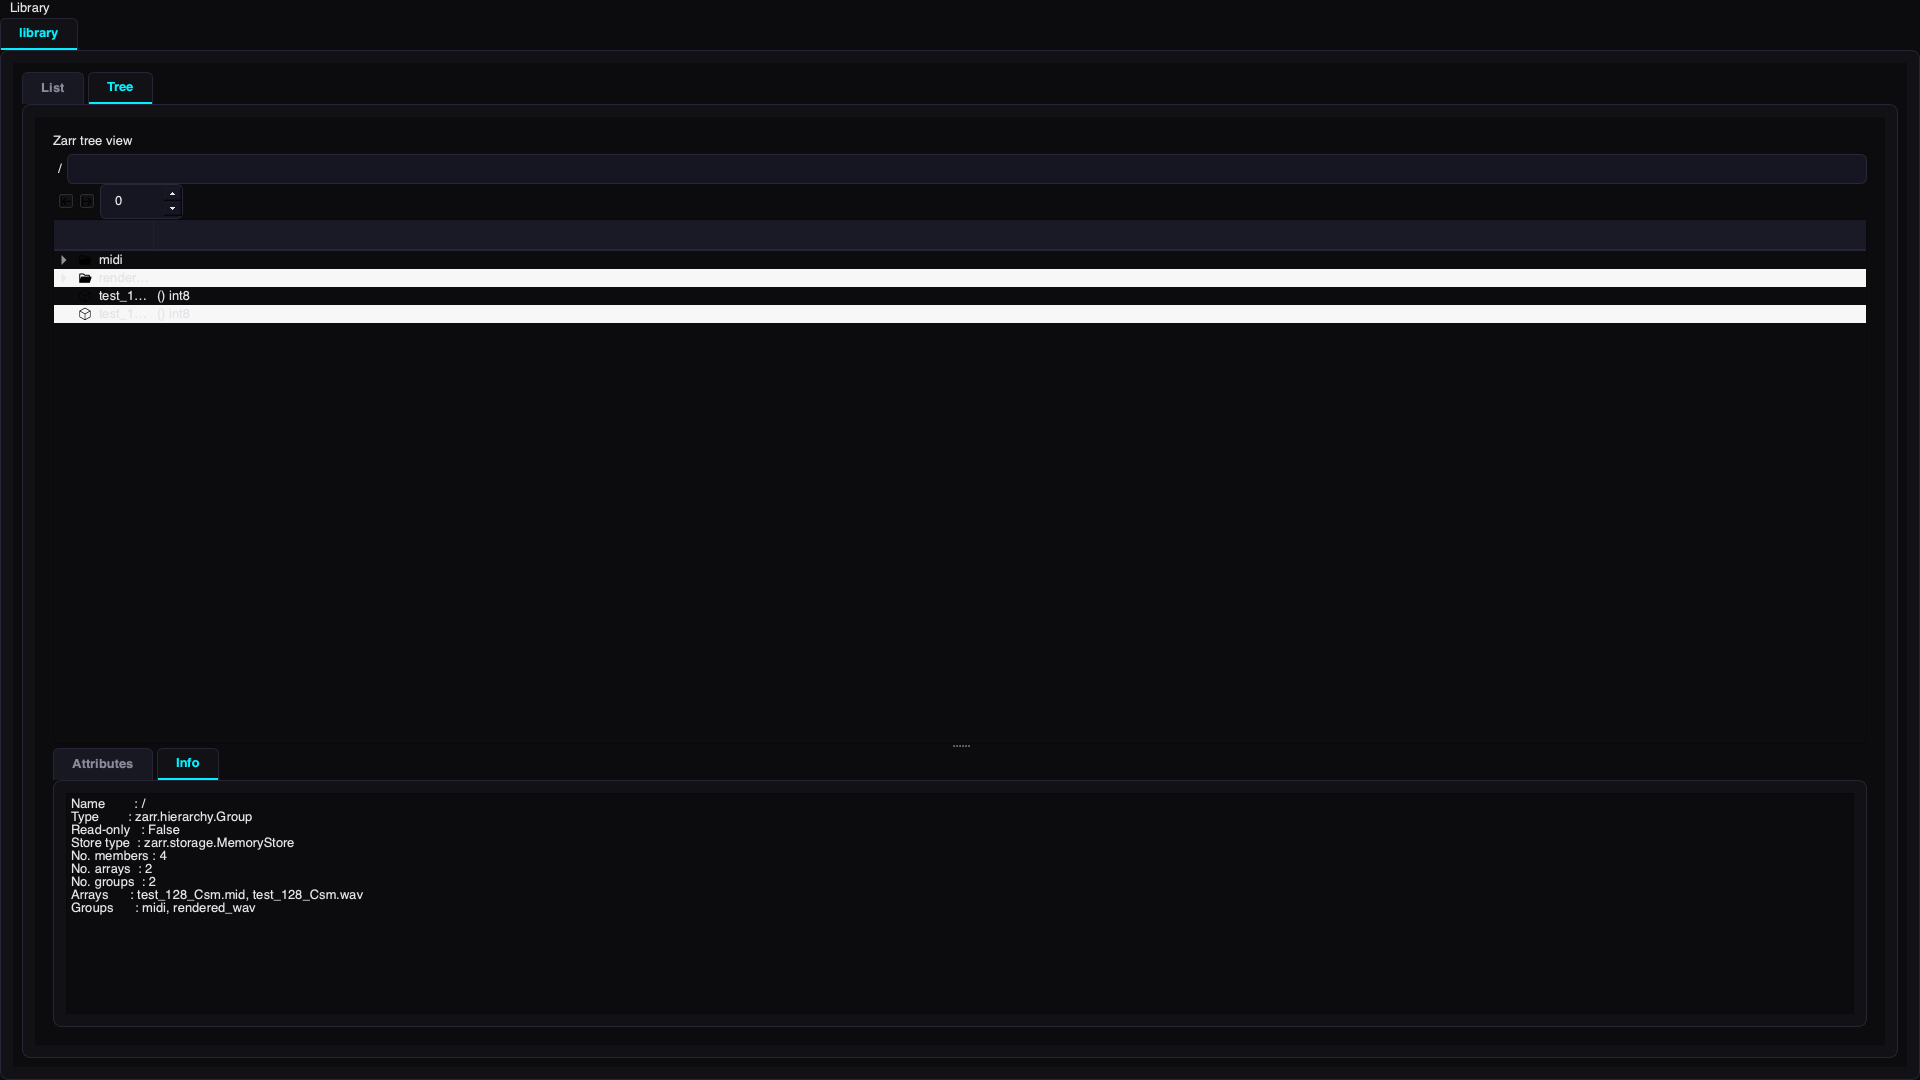
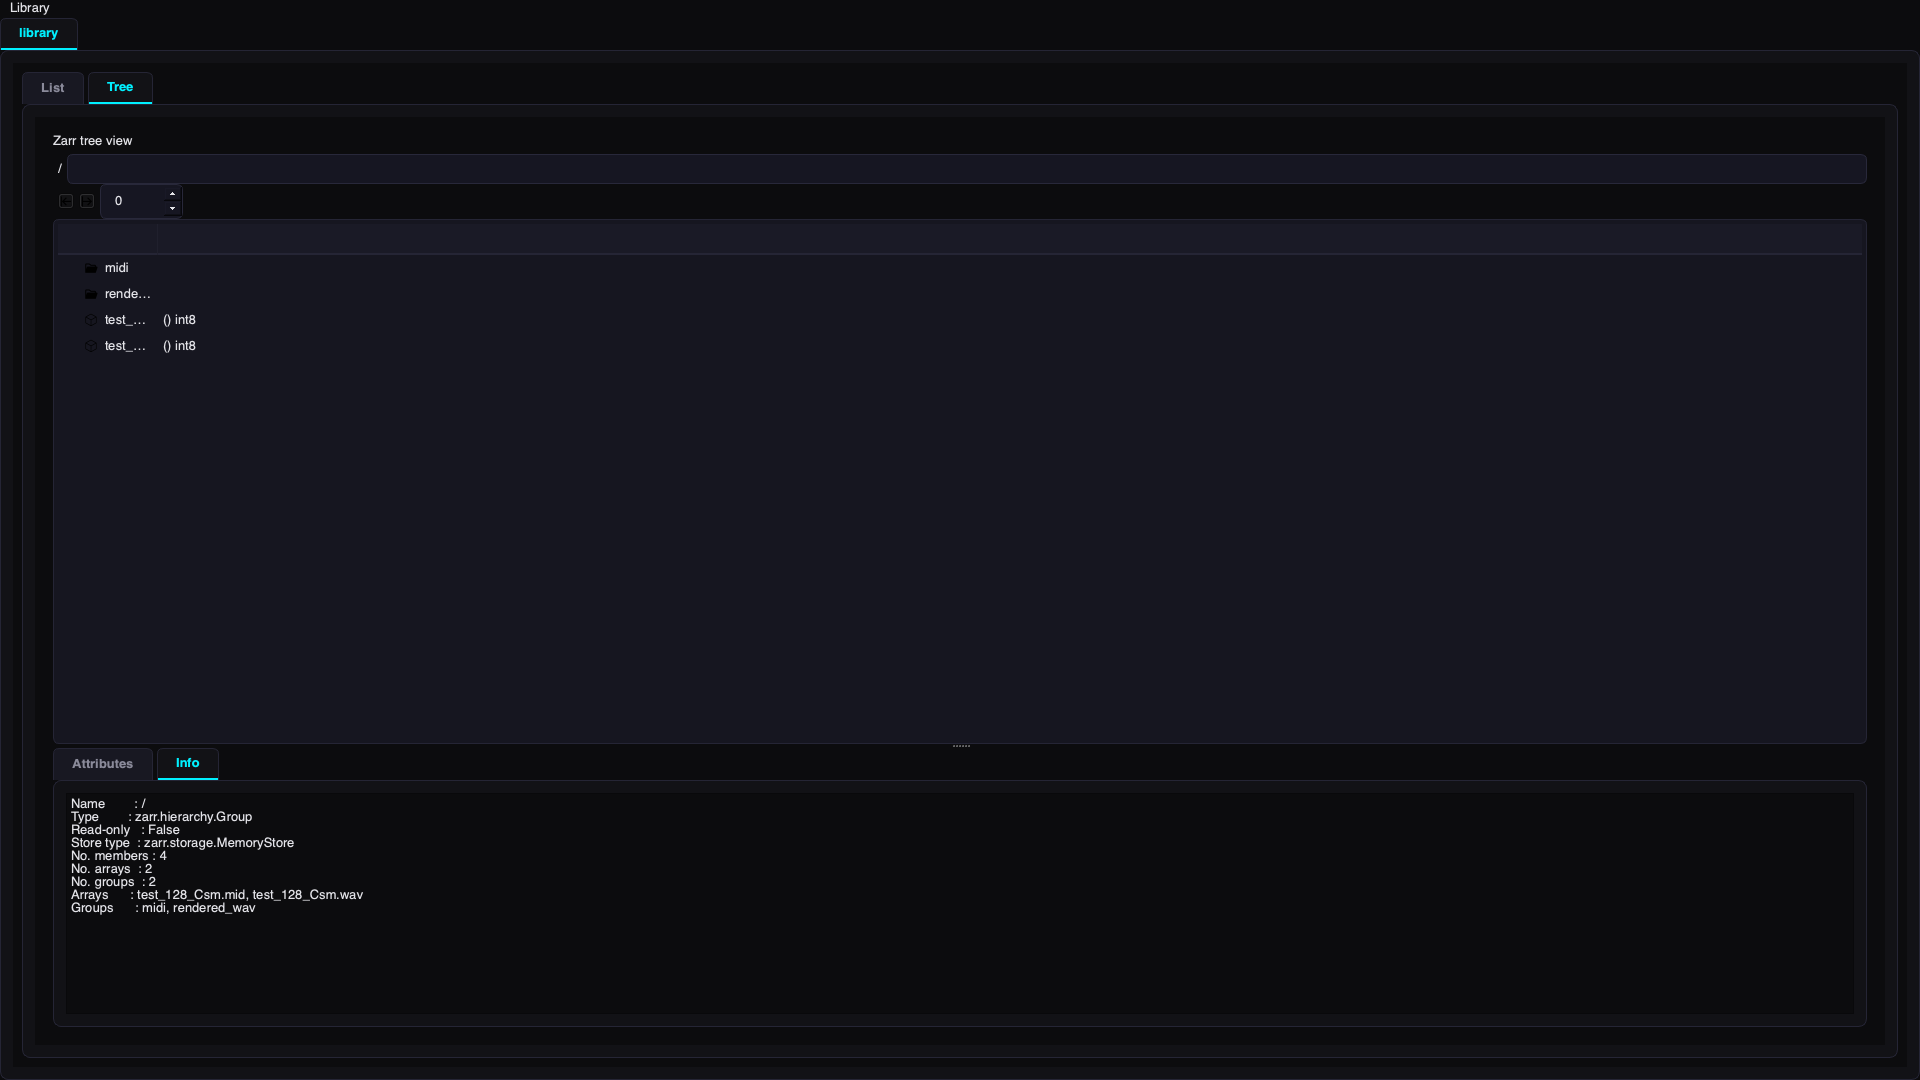
.

Changed region(s): [[0.0312, 0.2139, 0.9688, 0.3056]]

diff --git a/src/birka/presentation/zarr_library_view.py b/src/birka/presentation/zarr_library_view.py
@@ -54,6 +54,7 @@ class ZarrLibraryView(QtWidgets.QWidget):
         root = _build_zarr_hierarchy(self._root, self._items)
         viewer = ZarrViewer(root)
         self._viewer = viewer
+        _theme_zarr_tree(viewer)
         self._status.setText("Zarr tree view")
         layout.addWidget(viewer)
 
@@ -100,3 +101,29 @@ def _build_zarr_hierarchy(root: Path, items: Iterable[MediaItem]):
 def _apply_qt_compat() -> None:
     if not hasattr(QtCore.Qt, "DropActions") and hasattr(QtCore.Qt, "DropAction"):
         QtCore.Qt.DropActions = QtCore.Qt.DropAction  # type: ignore[attr-defined]
+
+
+def _theme_zarr_tree(viewer: QtWidgets.QWidget) -> None:
+    """Force the dark-theme selection colours onto the bundled ZarrViewer tree.
+
+    The third-party zarrview widget renders row selection through the widget
+    PALETTE, not the app stylesheet, so the global QSS leaves a glaring solid
+    white selection bar. We override the relevant palette roles (Highlight /
+    HighlightedText / Base / Text) directly on every QTreeView/QAbstractItemView
+    inside the viewer so selection matches the rest of the dark UI.
+    """
+    from PyQt6 import QtGui
+
+    pal = QtGui.QPalette()
+    Role = QtGui.QPalette.ColorRole
+    pal.setColor(Role.Base, QtGui.QColor("#161620"))
+    pal.setColor(Role.Text, QtGui.QColor("#e3e3e8"))
+    pal.setColor(Role.Highlight, QtGui.QColor("#103040"))
+    pal.setColor(Role.HighlightedText, QtGui.QColor("#00f0ff"))
+
+    targets = viewer.findChildren(QtWidgets.QAbstractItemView)
+    if isinstance(viewer, QtWidgets.QAbstractItemView):
+        targets = [viewer, *targets]
+    for view in targets:
+        view.setPalette(pal)
+        view.setAlternatingRowColors(False)

diff --git a/src/birka/presentation/theme.py b/src/birka/presentation/theme.py
@@ -120,6 +120,35 @@ QHeaderView::section:last {
     border-right: none;
 }
 
+/* Tree View styling (Zarr tree). Without this the row selection falls back to
+   the OS default — a glaring solid-white bar that clashes with the dark theme. */
+QTreeView, QTreeWidget {
+    background-color: #161620;
+    border: 1px solid #252535;
+    border-radius: 6px;
+    selection-background-color: #103040;
+    selection-color: #00f0ff;
+    outline: none;
+    padding: 4px;
+}
+QTreeView::item, QTreeWidget::item {
+    padding: 4px 2px;
+    border: none;
+}
+QTreeView::item:hover, QTreeWidget::item:hover {
+    background-color: #1c1c2a;
+}
+QTreeView::item:selected, QTreeWidget::item:selected {
+    background-color: #103040;
+    color: #00f0ff;
+}
+QTreeView::branch {
+    background: transparent;
+}
+QTreeView::branch:hover {
+    background-color: #1c1c2a;
+}
+
 /* Form Elements: Input fields, Combo boxes, Spin boxes */
 QLineEdit, QSpinBox, QComboBox {
     background-color: #161622;
